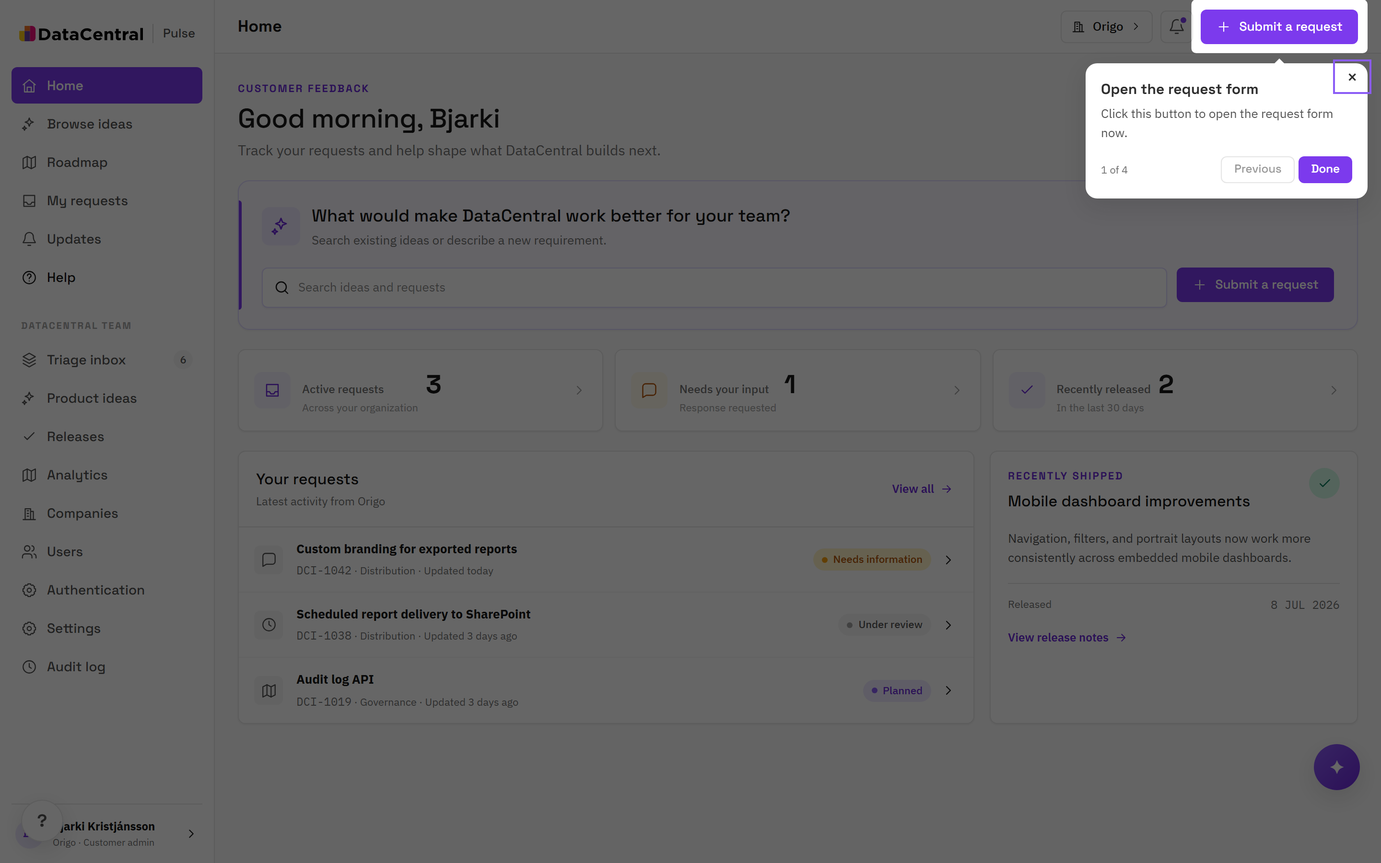
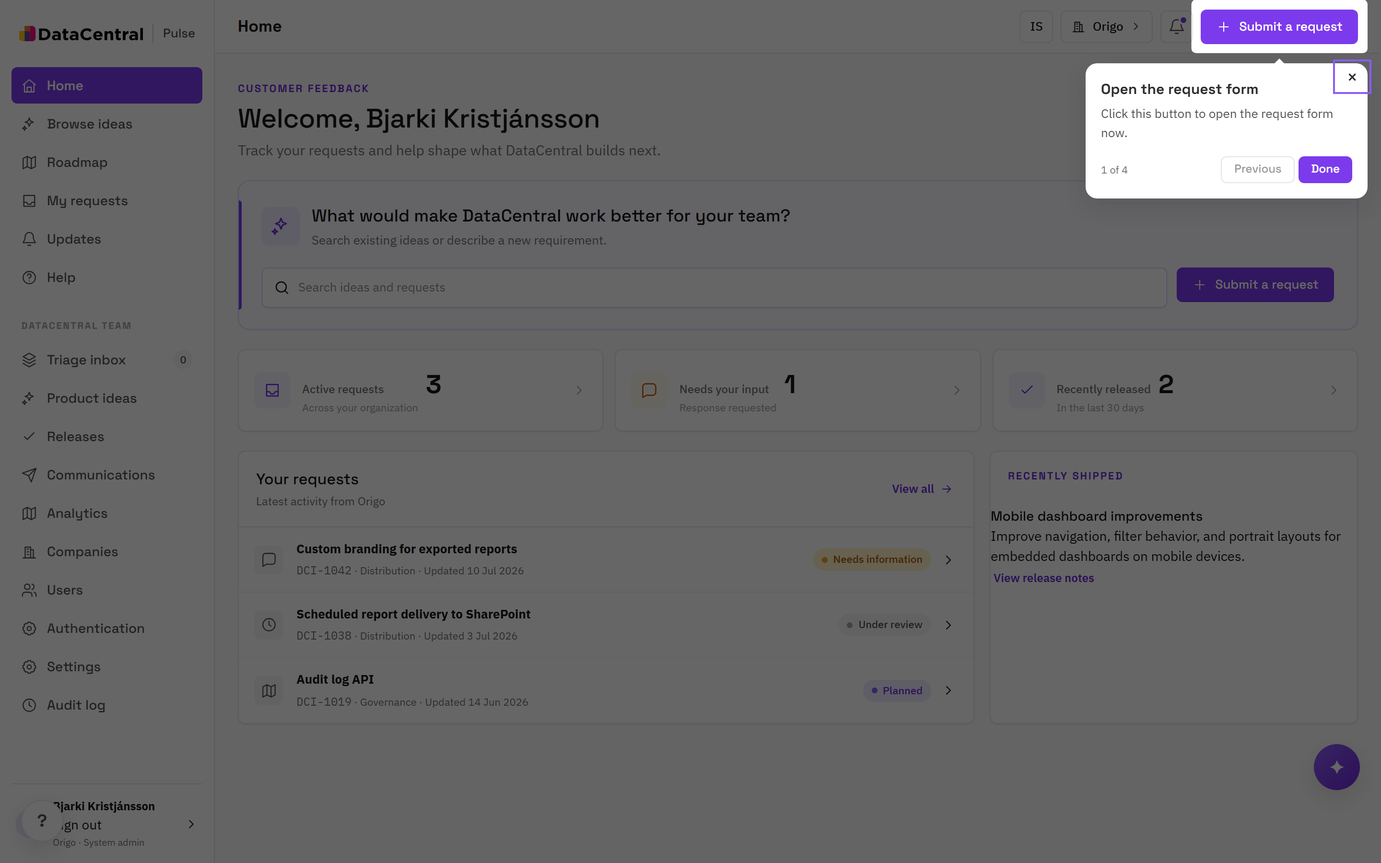
docs(communications): help manual section, internal tour and seed contact
The Customer communications tour is in the catalog (internal audience, never auto-started, four steps: the Communications menu entry, the template buttons, the Contacts tab and the SendGrid settings card), so /help has a chapter for it with its four screenshots. The admin manual gets a "Customer communications" guide after the onboarding notes (where it lives, the templates, who receives a communication, suppressions and safe mode, preview and test send, send, schedule and cancel, the delivery states, the Settings card), and the user manual gets a short note for everyone and for Company admins: the topic switches under Notification preferences and "Who receives DataCentral communications for your company". Both are in English and Icelandic, and only the team's manual carries the guide.

The Recipients step points at the Contacts tab and not at the section behind it, which is not on the page until the tab is open, so the anchor moved from the section to the tab button; a click on the tab carries the tour on. The seed gets a sample contact for ORG-001. tests/tours.test.ts covers the audiences, the steps and their anchors, both languages and the two manual blocks, and HowToRefreshHelp.md counts five tours.

The screenshots were all captured again with npm run help:screenshots: the interface has changed since the older ones were taken (the Communications menu entry, the language switch), and the help menu lists a fifth tour.

diff --git a/app/help/route.ts b/app/help/route.ts
@@ -53,6 +53,22 @@ const STRINGS = {
       "<strong>Restore</strong> — users who chose “Hide tours forever” appear in an amber bar above the grid; the Restore button next to their name brings tours back for them. There is deliberately no user-facing undo.",
       "<strong>DataCentral embeds</strong> — inside a DataCentral iframe, tours additionally require the launch to carry the <code>Onboard</code> role. Assign that role in DataCentral to control who gets onboarding there; standalone sign-ins are unaffected.",
     ],
+    communicationsGuideTitle: "Customer communications",
+    communicationsGuide: [
+      "<strong>Where it lives</strong> — Communications, in the “DataCentral team” menu. Product managers and System admins write and send. The rest of the team can read the lists and the delivery results.",
+      "<strong>Three templates</strong> — “New product update”, “Service notice” and “Announcement”. Each one is branded and holds English and Icelandic text. Recipients who prefer Icelandic get the English text until an Icelandic version exists. On the Releases page, “Draft customer email” starts a product update from a published release.",
+      "<strong>Who receives it</strong> — On the Audience step you pick companies, or all customers. Pulse members receive it by their own topic preferences. Contacts, the people without a Pulse account kept on the Contacts tab, receive it by topic. Security advisories reach members even when they have turned the topic off.",
+      "<strong>Suppressions and safe mode</strong> — An address on the Suppressions tab never receives anything, whatever company it belongs to. Bounces, spam reports and unsubscribes join the list by themselves. While safe mode is on, only allow-listed domains receive mail. The Audience and Review steps show who will receive it and who is left out, with the reason.",
+      "<strong>Preview and test send</strong> — The preview beside the form shows the saved draft in the language you are editing. “Send test to me” mails the draft to your own address, marked [TEST]. Test mails never count in the results.",
+      "<strong>Send, schedule, cancel</strong> — On the last step choose “Send now”, or pick a time and choose “Schedule”. Content and audience are locked once sending starts. A scheduled communication goes back to a draft with “Unschedule”. “Cancel sending” stops everyone SendGrid has not received yet. Mail already handed over is not recalled.",
+      "<strong>Delivery states</strong> — Each recipient moves from Queued to Accepted to Delivered. Deferred means the receiving server asked for more time. Bounced and Dropped mean the mail did not arrive. Dead letter means every attempt failed; “Retry dead letters” tries again. Suppressed recipients were left out before sending. Opens and clicks are counted separately.",
+      "<strong>Settings card</strong> — System admins use Settings → “Customer communications (SendGrid)”. Turn on “Enable sending”, choose the sender, keep safe mode on until the first real send, and press “Send configuration test”. The API key and the webhook key come from Key Vault, not from this page.",
+    ],
+    companyCommunicationsTitle: "Communications from DataCentral",
+    companyCommunications: [
+      "<strong>Your choices</strong> — DataCentral emails product updates, service notices and general announcements. On the Updates page, under “Notification preferences”, everyone switches each topic on or off for themselves. Security advisories are always delivered.",
+      "<strong>For Company admins</strong> — The same page shows “Who receives DataCentral communications for your company”. Colleagues with a Pulse account receive email automatically. Add people without an account here, one at a time or with “Paste list”, and edit or remove them whenever you need to. Only Company admins see this section.",
+    ],
     printHint: "Tip: this page prints cleanly — use it as a hand-out or a video-recording script.",
     languageToggle: "Íslenska",
     languageToggleHref: "?lang=is",
@@ -90,6 +106,22 @@ const STRINGS = {
       "<strong>Endurvirkja</strong> — notendur sem völdu „Fela leiðsagnir fyrir fullt og allt“ birtast í gulri rönd fyrir ofan töfluna; Restore-hnappurinn við nafnið þeirra kveikir aftur á leiðsögnum fyrir þá. Það er viljandi engin afturköllun fyrir notandann sjálfan.",
       "<strong>DataCentral-innfellingar</strong> — inni í DataCentral-iframe þurfa leiðsagnir að auki að ræsingin beri <code>Onboard</code>-hlutverkið. Úthlutaðu því hlutverki í DataCentral til að stýra hverjir fá leiðsögn þar; bein innskráning er óbreytt.",
     ],
+    communicationsGuideTitle: "Samskipti við viðskiptavini",
+    communicationsGuide: [
+      "<strong>Staðsetning</strong> — Samskipti eru í valmyndinni „DataCentral-teymið“. Vörustjórar og kerfisstjórar semja og senda. Aðrir í teyminu geta skoðað listana og niðurstöður sendinga.",
+      "<strong>Þrjú sniðmát</strong> — „Ný vöruuppfærsla“, „Þjónustutilkynning“ og „Tilkynning“. Öll eru með vörumerki og geyma texta á ensku og íslensku. Viðtakendur sem kjósa íslensku fá enska textann þar til íslensk útgáfa er til. Á útgáfusíðunni er hægt að velja „Semja tölvupóst til viðskiptavina“ fyrir útgefnar útgáfur; þá byrjar vöruuppfærsla með texta úr útgáfunni.",
+      "<strong>Hverjir fá sendinguna</strong> — Í skrefinu „Viðtakendur“ velur þú fyrirtæki eða öll fyrirtæki viðskiptavina. Meðlimir í Pulse fá hana eftir eigin stillingum. Tengiliðir, fólk án Pulse-aðgangs á flipanum „Tengiliðir“, fá hana eftir efnisflokki. Öryggistilkynningar ná til meðlima þótt þeir hafi slökkt á efnisflokknum.",
+      "<strong>Útilokanir og öruggur hamur</strong> — Netfang á flipanum „Útilokanir“ fær aldrei neitt, sama hvaða fyrirtæki það tilheyrir. Netföng sem skila sér ekki, ruslpóstskvartanir og afskráningar bætast sjálfkrafa á listann. Meðan öruggur hamur er á fá aðeins leyfð lén póst. Skrefin „Viðtakendur“ og „Yfirfara og senda“ sýna hverjir fá sendinguna og hverjir eru útilokaðir, með ástæðu.",
+      "<strong>Forskoðun og prófun</strong> — Forskoðunin við hliðina á forminu sýnir vistuðu drögin á tungumálinu sem þú ert að breyta. „Senda prófun á mig“ sendir drögin á þitt eigið netfang, merkt [TEST]. Prófanir telja aldrei með í niðurstöðum.",
+      "<strong>Senda, tímasetja, hætta við</strong> — Í síðasta skrefinu velur þú „Senda núna“, eða velur tíma og „Tímasetja“. Efni og viðtakendur læsast þegar sending hefst. Tímasetta sendingu má gera aftur að drögum með „Aftengja tímasetningu“. „Hætta við sendingu“ stöðvar alla sem SendGrid hefur ekki enn fengið. Póstur sem þegar er farinn er ekki kallaður til baka.",
+      "<strong>Sendingarstöður</strong> — Hver viðtakandi fer úr „Í biðröð“ í „Móttekið“ og svo „Afhent“. „Frestað“ þýðir að móttökuþjónninn bað um meiri tíma. „Skiluðu sér ekki“ og „Fellt niður“ þýða að pósturinn barst ekki. „Endurtilraunir tæmdar“ þýðir að allar tilraunir mistókust; „Reyna aftur sendingar sem mistókust“ reynir aftur. „Útilokað“ merkir að viðtakandinn var undanskilinn áður en sending hófst. Opnanir og smellir eru talin sérstaklega.",
+      "<strong>Stillingaspjaldið</strong> — Kerfisstjórar nota Stillingar → „Samskipti við viðskiptavini (SendGrid)“. Þar kveikja þeir á „Virkja sendingar“, velja sendanda, halda öruggum ham á þar til fyrsta raunverulega sendingin fer út og ýta á „Senda prófun á uppsetningu“. API-lykillinn og lykillinn fyrir atburðavefkrókinn koma úr Key Vault, ekki héðan.",
+    ],
+    companyCommunicationsTitle: "Samskipti frá DataCentral",
+    companyCommunications: [
+      "<strong>Þínar stillingar</strong> — DataCentral sendir vöruuppfærslur, þjónustutilkynningar og almennar tilkynningar í tölvupósti. Á uppfærslusíðunni, undir „Tilkynningastillingar“, kveikir eða slekkur hver og einn á hverjum efnisflokki fyrir sig. Öryggistilkynningar eru alltaf sendar.",
+      "<strong>Fyrir fyrirtækisstjóra</strong> — Á sömu síðu er hlutinn „Hverjir fá samskipti frá DataCentral fyrir fyrirtækið þitt“. Samstarfsfólk með Pulse-aðgang fær tölvupóst sjálfkrafa. Bættu hér við fólki án aðgangs, einu í einu eða með „Líma lista“, og breyttu þeim eða fjarlægðu þegar þörf krefur. Aðeins fyrirtækisstjórar sjá þennan hluta.",
+    ],
     printHint: "Ábending: síðan prentast hreint — nýttu hana sem dreifiblað eða upptökuhandrit.",
     languageToggle: "English",
     languageToggleHref: "?lang=en",
@@ -114,6 +146,10 @@ const CHAPTER_INTROS: Record<string, { en: string; is: string }> = {
   "admin-settings": {
     en: "System administration: product settings and the onboarding controls — the master switch, per-tour audiences, and the per-user progress grid with Restore.",
     is: "Kerfisstjórnun: vörustillingar og stýringar nýliðaleiðsagna — aðalrofinn, markhópar hverrar leiðsagnar og framvindutafla með endurvirkjun.",
+  },
+  "customer-communications": {
+    en: "Writing to customer companies from Pulse: where Communications lives, how a draft starts from a template, who receives it, and where System admins set up sending. Customers never see these views.",
+    is: "Að skrifa til fyrirtækja viðskiptavina í Pulse: hvar Samskipti eru, hvernig drög byrja á sniðmáti, hverjir fá þau og hvar kerfisstjórar setja upp sendingar. Viðskiptavinir sjá aldrei þessi svæði.",
   },
 };
 
@@ -162,6 +198,14 @@ function renderChapter(chapter: HelpChapter, lang: Lang) {
     <p><a class="start-link" href="/?tour=${encodeURIComponent(def.key)}">${esc(t.startTour)}</a></p>
     ${steps}
   </section>`;
+}
+
+// A block of short prose after the chapters of a manual. The class is the manual's prose-block style, which is not only for the admin manual.
+function renderExtra(title: string, items: readonly string[], id?: string) {
+  return `<div class="admin-extra"${id ? ` id="${id}"` : ""}>
+    <h5>${esc(title)}</h5>
+    <ul>${items.map((item) => `<li>${item}</li>`).join("")}</ul>
+  </div>`;
 }
 
 function tocEntry(chapter: HelpChapter, lang: Lang) {
@@ -283,15 +327,14 @@ export async function GET(request: Request) {
 
   <h2 id="user">${esc(t.userManual)}</h2>
   ${data.userChapters.map((chapter) => renderChapter(chapter, lang)).join("")}
+  ${renderExtra(t.companyCommunicationsTitle, t.companyCommunications, "company-communications")}
 
   ${
     showAdmin
       ? `<h2 id="admin">${esc(t.adminManual)}</h2>
   ${data.adminChapters.map((chapter) => renderChapter(chapter, lang)).join("")}
-  <div class="admin-extra">
-    <h5>${esc(t.adminExtraTitle)}</h5>
-    <ul>${t.adminExtra.map((item) => `<li>${item}</li>`).join("")}</ul>
-  </div>`
+  ${renderExtra(t.adminExtraTitle, t.adminExtra)}
+  ${renderExtra(t.communicationsGuideTitle, t.communicationsGuide, "communications-guide")}`
       : ""
   }
 </div>

diff --git a/tests/tours.test.ts b/tests/tours.test.ts
@@ -1,6 +1,9 @@
 import test, { beforeEach } from "node:test";
 import assert from "node:assert/strict";
 import { createHmac } from "node:crypto";
+import { readdirSync, readFileSync } from "node:fs";
+import { join } from "node:path";
+import { fileURLToPath } from "node:url";
 import type { PulseIdentity } from "../lib/domain";
 import {
   createSessionToken,
@@ -83,6 +86,62 @@ test("audiences: internal contributors get the team tour but not admin-settings"
 test("audiences: System admins get every tour", async () => {
   const keys = (await getTourState(ADMIN)).tours.map((tour) => tour.key);
   for (const def of TOUR_CATALOG) assert.ok(keys.includes(def.key));
+});
+
+test("audiences: the customer-communications tour is internal-only and never auto-starts", async () => {
+  const internal = (await getTourState(CONTRIBUTOR)).tours.find((tour) => tour.key === "customer-communications");
+  assert.ok(internal);
+  assert.equal(internal?.autoStart, false);
+  assert.ok(!(await getTourState(CUSTOMER)).tours.some((tour) => tour.key === "customer-communications"));
+});
+
+test("customer-communications: it starts on the Communications page, opens the Contacts tab by a click, and ends on the Settings card", async () => {
+  const tour = (await getTourState(ADMIN)).tours.find((item) => item.key === "customer-communications");
+  assert.ok(tour);
+  assert.equal(tour.version, 1);
+  assert.deepEqual(
+    tour.steps.map((step) => [step.element, step.route]),
+    [
+      ["[data-tour='nav-communications']", "/communications"],
+      ["[data-tour='communications-new']", "/communications"],
+      ["[data-tour='communications-contacts']", "/communications"],
+      ["[data-tour='settings-communications']", "/settings"],
+    ],
+  );
+  // The Contacts tab is on the page from the first moment, so the person opens it by clicking the highlighted tab:
+  // the tour has no way to switch a tab for them, and the section behind the tab is not there until it is open.
+  assert.deepEqual(
+    tour.steps.map((step) => step.advanceOnClick),
+    [false, false, true, false],
+  );
+});
+
+test("every tour step is written in both languages, and the Icelandic is not a copy of the English", () => {
+  for (const def of TOUR_CATALOG) {
+    for (const field of [def.title, ...def.steps.flatMap((step) => [step.title, step.description])]) {
+      assert.ok(field.en.trim() && field.is.trim(), `${def.key}: both languages are written`);
+      assert.notEqual(field.en, field.is, `${def.key}: "${field.en}" is not translated`);
+    }
+  }
+});
+
+test("every tour step points at an anchor that the app renders", () => {
+  const appDirectory = fileURLToPath(new URL("../app", import.meta.url));
+  const files = readdirSync(appDirectory, { recursive: true, encoding: "utf8" }).filter((file) => file.endsWith(".tsx"));
+  const source = files.map((file) => readFileSync(join(appDirectory, file), "utf8")).join("\n");
+  for (const def of TOUR_CATALOG) {
+    for (const [index, step] of def.steps.entries()) {
+      if (!step.element) continue;
+      const name = /^\[data-tour='([a-z-]+)'\]$/.exec(step.element)?.[1];
+      assert.ok(name, `${def.key} step ${index + 1}: ${step.element} is a data-tour selector`);
+      // An anchor is written data-tour="x" or dataTour="x"; the tabs of the Communications page give theirs as the `tour` of the tab.
+      const written = [`data-tour="${name}"`, `dataTour="${name}"`, `tour: "${name}"`];
+      assert.ok(
+        written.some((text) => source.includes(text)),
+        `${def.key} step ${index + 1}: nothing in app/ carries data-tour="${name}"`,
+      );
+    }
+  }
 });
 
 test("embed sessions are gated on the DataCentral Onboard role", async () => {
@@ -256,6 +315,67 @@ test("/help never serves admin chapters to a customer session", async () => {
   assert.ok(!html.includes('id="team-workspace"'));
   assert.ok(!html.includes('id="admin-settings"'));
   assert.ok(!html.includes("Triage inbox")); // no internal tour content leaks
+});
+
+test("/help: the customer-communications chapter and its guide are for the DataCentral team, in both languages", async () => {
+  // memory mode, no cookie → demo System-admin identity
+  const html = await (await helpGet(new Request("http://localhost/help"))).text();
+  assert.ok(html.includes('id="customer-communications"'), "the tour is a chapter of the admin manual");
+  for (let step = 1; step <= 4; step++) {
+    assert.ok(html.includes(`id="customer-communications-step-${step}"`), `step ${step}`);
+    assert.ok(html.includes(`src="/help/customer-communications-step-${step}.png"`), `the screenshot of step ${step}`);
+  }
+  assert.ok(html.includes("Do: click the highlighted element to continue."), "the Contacts step is opened by a click");
+  // the guide follows the chapters of the admin manual; it is not part of the user manual
+  assert.ok(html.indexOf('id="admin"') < html.indexOf('id="communications-guide"'));
+  assert.ok(html.indexOf('id="customer-communications"') < html.indexOf('id="communications-guide"'));
+  for (const topic of [
+    "Suppressions tab", "safe mode", "“Send test to me”", "“Send now”", "“Schedule”", "“Cancel sending”", "Dead letter",
+    "“Retry dead letters”", "“Customer communications (SendGrid)”", "“Enable sending”",
+  ])
+    assert.ok(html.includes(topic), `the guide covers ${topic}`);
+
+  const icelandic = await (await helpGet(new Request("http://localhost/help?lang=is"))).text();
+  assert.ok(icelandic.includes('id="communications-guide"'));
+  for (const topic of ["öruggur hamur", "„Senda prófun á mig“", "„Senda núna“", "„Hætta við sendingu“", "„Samskipti við viðskiptavini (SendGrid)“"])
+    assert.ok(icelandic.includes(topic), `the Icelandic guide covers ${topic}`);
+});
+
+test("/help: the note for Company admins is in the user manual, for every reader and in both languages, and says nothing about the team's tools", async () => {
+  const token = await createSessionToken({
+    sub: CUSTOMER.id,
+    email: CUSTOMER.email,
+    name: CUSTOMER.name,
+    ext: "dev:test",
+    amr: "entra",
+  });
+  const read = async (query: string) => {
+    const response = await helpGet(
+      new Request(`http://localhost/help${query}`, {
+        headers: { cookie: `${SESSION_COOKIE}=${encodeURIComponent(token)}` },
+      }),
+    );
+    assert.equal(response.status, 200);
+    return response.text();
+  };
+  const english = await read("");
+  assert.ok(english.includes('id="company-communications"'));
+  assert.ok(english.includes("“Who receives DataCentral communications for your company”"));
+  assert.ok(english.includes("“Notification preferences”"));
+  assert.ok(english.indexOf('id="submit-request"') < english.indexOf('id="company-communications"'), "after the chapters of the user manual");
+  const icelandic = await read("?lang=is");
+  assert.ok(icelandic.includes('id="company-communications"'));
+  assert.ok(icelandic.includes("„Hverjir fá samskipti frá DataCentral fyrir fyrirtækið þitt“"));
+  assert.ok(icelandic.includes("„Tilkynningastillingar“"));
+  for (const html of [english, icelandic]) {
+    assert.ok(!html.includes('id="customer-communications"'), "no chapter of the team's tour");
+    assert.ok(!html.includes('id="communications-guide"'), "no guide to the team's tools");
+    assert.ok(!html.includes("SendGrid"));
+    assert.ok(!html.includes('id="admin"'));
+  }
+  // the demo System admin reads the same note, before the admin manual starts
+  const admin = await (await helpGet(new Request("http://localhost/help"))).text();
+  assert.ok(admin.indexOf('id="company-communications"') < admin.indexOf('id="admin"'));
 });
 
 test("dc-auth stamps dc_onboard only when the launch carries the Onboard role", async () => {

diff --git a/lib/server/tour-catalog.ts b/lib/server/tour-catalog.ts
@@ -314,4 +314,56 @@ export const TOUR_CATALOG: TourDefinition[] = [
       },
     ],
   },
+  {
+    key: "customer-communications",
+    version: 1,
+    title: { en: "Customer communications", is: "Samskipti við viðskiptavini" },
+    defaultAutoStart: false,
+    defaultAudience: "Internal",
+    reofferOnNewVersion: false,
+    steps: [
+      {
+        element: "[data-tour='nav-communications']",
+        route: "/communications",
+        side: "right",
+        title: { en: "Communications", is: "Samskipti" },
+        description: {
+          en: "Compose product updates, service notices and announcements for customer companies, then track every delivery.",
+          is: "Semdu vöruuppfærslur, þjónustutilkynningar og tilkynningar fyrir fyrirtæki viðskiptavina og fylgstu með hverri sendingu.",
+        },
+      },
+      {
+        element: "[data-tour='communications-new']",
+        route: "/communications",
+        title: { en: "Start from a template", is: "Byrjaðu með sniðmáti" },
+        description: {
+          en: "Each template is branded and bilingual. Published releases also offer “Draft customer email”.",
+          is: "Hvert sniðmát er með vörumerki og á tveimur tungumálum. Útgefnar útgáfur bjóða líka upp á „Semja tölvupóst til viðskiptavina“.",
+        },
+      },
+      {
+        // The anchor is the Contacts tab itself, which is on the page whichever tab is open: the tour cannot switch a tab for the person, and the
+        // section behind the tab is not rendered until it is open. A click on the highlighted tab carries the tour on (the tab opens as the tour
+        // moves to the Settings page); "Next" does the same without opening it.
+        element: "[data-tour='communications-contacts']",
+        route: "/communications",
+        side: "bottom",
+        advanceOnClick: true,
+        title: { en: "Recipients", is: "Viðtakendur" },
+        description: {
+          en: "Pulse members receive communications automatically. Add contacts for people without a Pulse account; Company admins can maintain their own company's list.",
+          is: "Meðlimir í Pulse fá samskipti sjálfkrafa. Bættu við tengiliðum fyrir fólk án Pulse-aðgangs; stjórnendur fyrirtækja geta viðhaldið sínum eigin lista.",
+        },
+      },
+      {
+        element: "[data-tour='settings-communications']",
+        route: "/settings",
+        title: { en: "SendGrid settings", is: "SendGrid-stillingar" },
+        description: {
+          en: "System admins enable sending, choose the sender, keep safe mode on until the first real send, and verify the configuration here.",
+          is: "Kerfisstjórar virkja sendingar, velja sendanda, halda öruggum ham á þar til fyrsta raunverulega sendingin fer út og staðfesta uppsetninguna hér.",
+        },
+      },
+    ],
+  },
 ];

diff --git a/app/features/communications.tsx b/app/features/communications.tsx
@@ -25,9 +25,13 @@ import {
 import { useResource } from "./use-resource";
 
 type Tab = "campaigns" | "contacts" | "suppressions";
-const TABS: Array<{ id: Tab; label: string }> = [
+/**
+ * `tour` is the anchor of a stop in the customer-communications tour. Its Recipients step highlights the Contacts tab, because the tab is on
+ * the page whichever tab is open and the tour cannot switch one for the person: they click the highlighted tab to carry on.
+ */
+const TABS: Array<{ id: Tab; label: string; tour?: string }> = [
   { id: "campaigns", label: "Campaigns" },
-  { id: "contacts", label: "Contacts" },
+  { id: "contacts", label: "Contacts", tour: "communications-contacts" },
   { id: "suppressions", label: "Suppressions" },
 ];
 const API = "/api/v1/internal/communications";
@@ -274,6 +278,7 @@ export function CommunicationsPage({
             role="tab"
             aria-selected={tab === entry.id}
             className={tab === entry.id ? "active" : ""}
+            data-tour={entry.tour}
             onClick={() => setTab(entry.id)}
           >
             {t(entry.label)}

diff --git a/app/features/communication-contacts.tsx b/app/features/communication-contacts.tsx
@@ -91,7 +91,7 @@ export function CommunicationContactsTab({
   };
 
   return (
-    <section className="page-stack" data-tour="communications-contacts">
+    <section className="page-stack">
       <div className="management-toolbar">
         <label className="select-wrap">
           <Icon name="building" size={15} />

diff --git a/HowToRefreshHelp.md b/HowToRefreshHelp.md
@@ -14,7 +14,7 @@ are the **screenshots** and the **chapter intro texts**.
 | Piece | File | Refresh needed when… |
 | --- | --- | --- |
 | Tour catalog (steps, anchors, en/is strings) | `lib/server/tour-catalog.ts` | you change tours — this IS the manual's content |
-| Help page (layout, intros, about/admin-extra prose) | `app/help/route.ts` | a NEW tour needs a `CHAPTER_INTROS` entry; feature behavior described in the static prose changed |
+| Help page (layout, intros, about/admin-extra prose, the Communications guide and the note for Company admins) | `app/help/route.ts` | a NEW tour needs a `CHAPTER_INTROS` entry; feature behavior described in the static prose changed |
 | Manual split / audience gating | `getHelpData` in `lib/server/tour-repository.ts` | never, unless audience semantics change (All/Customers → user manual, Internal/SystemAdmins → admin manual) |
 | Screenshots | `public/help/*.png` | tours changed, UI changed visibly, or anchors moved — **recapture** |
 | Capture script | `scripts/capture-help-screenshots.mjs` | rarely; see contract below |
@@ -32,8 +32,10 @@ rename): `public/help/{tourKey}-step-{N}.png` (N is 1-based) plus
   `lib/server/tour-catalog.ts`. For a **new tour**, add a matching entry to
   `CHAPTER_INTROS` in `app/help/route.ts` (en + is, one narration-style opener).
 - If the changed behavior is described in the static prose ("The help system in
-  one minute", "Administering onboarding" / `adminExtra`), update those strings
-  in `app/help/route.ts` (both languages).
+  one minute", "Administering onboarding" / `adminExtra`, "Customer
+  communications" / `communicationsGuide`, "Communications from DataCentral" /
+  `companyCommunications`), update those strings in `app/help/route.ts` (both
+  languages).
 - Rule from the tour kit: any step whose anchor lives inside a conditionally
   rendered container (modal/drawer) must carry a pseudo-`route` that the
   TourHost glue can map to "open that container" — see `/compose` →
@@ -49,11 +51,14 @@ Prereqs (already in the repo): `playwright` devDependency + Chromium
 # 1. Fresh dev server in memory mode — REQUIRED, memory state must be clean so
 #    the help-menu screenshot shows tours as not-started
 #    (kill any running one first; the demo identity is a System admin and the
-#    master switch defaults ON, so all four tours are capturable)
+#    master switch defaults ON, so all five tours are capturable)
 npm run dev
 
 # 2. In another terminal:
 npm run help:screenshots        # → node scripts/capture-help-screenshots.mjs
+
+# Port 3000 taken by something else? Start the server with `npx next dev -p 3100`
+# and pass its address: npm run help:screenshots -- http://localhost:3100
 ```
 
 The script drives the **real Driver.js tours**: for every tour step it calls
@@ -65,7 +70,7 @@ The script drives the **real Driver.js tours**: for every tour step it calls
 - the Next dev-overlay badge and the resume chip are hidden via injected CSS
   (the badge sits exactly over the ? button bottom-left and broke clicks).
 
-Expected output: one line per step (currently 22 steps / 4 tours) plus
+Expected output: one line per step (currently 26 steps / 5 tours) plus
 `help-menu`, ending `Done → …\public\help`. If it says "No tours in state",
 the master switch is off or a tour was disabled — fix in Settings → Onboarding
 (or restart the server to reset memory settings) and rerun.
@@ -87,8 +92,8 @@ npm run lint && npm run build
 
 If tour keys/audiences changed, update the assertions in `tests/tours.test.ts`
 (they reference the keys `welcome`, `submit-request`, `team-workspace`,
-`admin-settings` and assert customers never receive admin chapters — keep that
-guarantee).
+`admin-settings`, `customer-communications` and assert customers never receive
+admin chapters — keep that guarantee).
 
 ## Known quirks (not bugs — don't chase them)
 
@@ -100,6 +105,12 @@ guarantee).
 - The build prints pre-existing `instrumentation.ts` Edge-runtime warnings
   ("Ecmascript file had an error" then "Compiled successfully") — unrelated to
   the help system.
+- **A step can show "Done" instead of "Next".** The engine labels a step "Done"
+  when none of the later steps' anchors is on the page at that moment: they are
+  on another page (typical for the step before a page change), or the page is
+  still loading when the popover opens (the first step of Customer
+  communications). Pressing it still continues the tour (`onDoneClick` in
+  `public/tours/tour-engine.js`).
 - Screenshots are English: memory mode resolves every user's locale to `en`.
   The Icelandic manual (`?lang=is`) intentionally reuses them.
 - Screenshots are committed binaries (~300 KB each @2x). Recapture replaces
